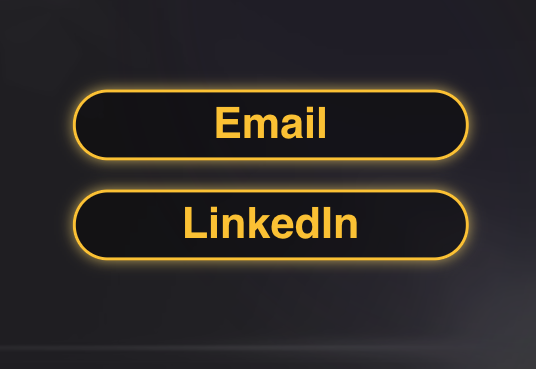
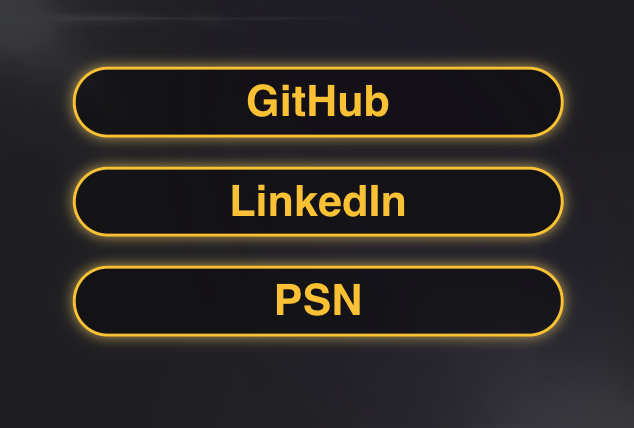
style contact and main menu

Changed region(s): [[0.0896, 0.1192, 0.8955, 0.8049], [0.0, 0.0, 0.0597, 0.0894]]

diff --git a/src/components/portfolio.js b/src/components/portfolio.js
@@ -1,0 +1,56 @@
+import React from 'react';
+import { NavLink } from 'react-router-dom';
+
+import './portfolio.scss';
+
+class Portfolio extends React.Component {
+
+    state = {
+        selected: "none"
+    }
+
+    render() {
+        return (
+            <div className="portfolio">
+                <div className="portfolio__header-container">
+                    <div className="portfolio__header">PORTFOLIO</div>
+                    <NavLink to="/main-menu" className="portfolio__back-button">GO BACK</NavLink>
+                </div>
+                <div className="portfolio__projects-container">
+                    <div className="portfolio__project">
+                        <img className="portfolio__project-prev-img" src="./assets/contact-preview.png" alt="project preview"/>
+                        <div className="portfolio__project-title">SCRAMBLED</div>
+                    </div>
+                    <div className="portfolio__project">
+                        <img className="portfolio__project-prev-img" src="./assets/contact-preview.png" alt="project preview"/>
+                        <div className="portfolio__project-title">COMPLETIONIST</div>
+                    </div>
+                    <div className="portfolio__project">
+                        <img className="portfolio__project-prev-img" src="./assets/contact-preview.png" alt="project preview"/>
+                        <div className="portfolio__project-title">FLASH FLIP</div>
+                    </div>
+                    <div className="portfolio__project">
+                        <img className="portfolio__project-prev-img" src="./assets/contact-preview.png" alt="project preview"/>
+                        <div className="portfolio__project-title">12MONTHS</div>
+                    </div>
+                </div>
+                <div className="portfolio__prev-container">
+                    <div className="portfolio__prev-details">
+                        <div className="portfolio__prev-prev-img"></div>
+                        <div className="portfolio__prev-title"></div>
+                        <div className="portfolio__prev-stack"></div>
+                        <div className="portfolio__prev-desc"></div>
+                        <div className="portfolio__prev-github"></div>
+                    </div>
+                    <div className="portfolio__prev-demo">
+                        <div className="portfolio__prev-demo-title"></div>
+                        <div className="portfolio__prev-demo-vid"></div>
+                    </div>
+                </div>
+            </div>
+        );
+    }
+    
+}
+
+export default Portfolio;

diff --git a/src/components/contact.js b/src/components/contact.js
@@ -11,8 +11,9 @@ function Contact() {
             <div className="contact__content-outer">
                 <div className="contact__content-inner">
                     <div className="contact__items">
-                        <a className="contact__item" href="mailto:willrichott@gmail.com" target="_blank">Email</a>
-                        <a className="contact__item" href="https://www.linkedin.com/in/billyott" target="_blank">LinkedIn</a>
+                        <a className="contact__item" href="https://github.com/billyott" target="_blank" rel="noreferrer">GitHub</a>
+                        <a className="contact__item" href="https://www.linkedin.com/in/billyott" target="_blank" rel="noreferrer">LinkedIn</a>
+                        <a className="contact__item" href="https://my.playstation.com/profile/zomgbill" target="_blank" rel="noreferrer">PSN</a>
                     </div>
                 </div>
             </div>

diff --git a/src/components/main-menu.js b/src/components/main-menu.js
@@ -25,13 +25,13 @@ class MainMenu extends React.Component {
 
     generatePrevText = () => {
         if (this.state.selected === "portfolio") {
-            return("My projects!")
+            return("Dev projects!")
         } else if (this.state.selected === "about") {
-            return("The story so far!")
+            return("Current stats!")
         } else if (this.state.selected === "blog") {
-            return("My thoughts!")
+            return("Some thoughts!")
         }  else if (this.state.selected === "contact") {
-            return("Get in touch!")
+            return("Comms methods!")
         } else {
             return ("Make a selection!")
         }

diff --git a/src/App.js b/src/App.js
@@ -2,6 +2,7 @@ import { BrowserRouter, Switch, Route, Redirect } from 'react-router-dom';
 
 import Homepage from './components/homepage';
 import MainMenu from './components/main-menu';
+import Portfolio from './components/portfolio';
 import About from './components/about';
 import Contact from './components/contact';
 import './app.scss';
@@ -13,6 +14,9 @@ function App() {
         <Switch>
           <Route path="/main-menu">
             <MainMenu />
+          </Route>
+          <Route path="/portfolio">
+            <Portfolio />
           </Route>
           <Route path="/about">
             <About />

diff --git a/src/components/contact.scss b/src/components/contact.scss
@@ -35,7 +35,7 @@
     }
 
     &__content-inner {
-        min-height: 400px;
+        min-height: 500px;
         box-shadow: 0 0 10px $scheme-yellow-light-a4;
         border-radius: .4rem 1.2rem .5rem .3125rem;
         // padding: 5%;
